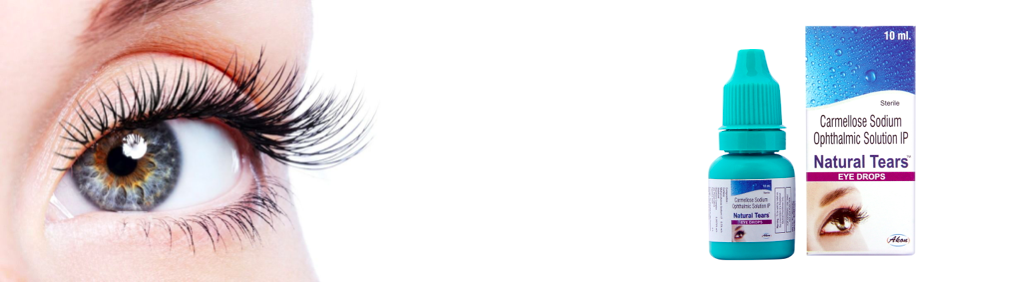
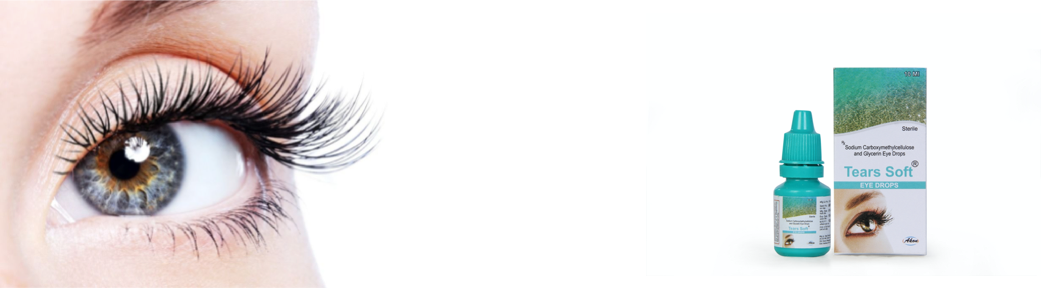
Add Images

diff --git a/index.html b/index.html
@@ -79,8 +79,16 @@
              </li>
 
              <li data-transition="papercut" data-slotamount="7">
-                    <img src="images/new-slider/s5-bg.png"  alt="" data-bgrepeat="no-repeat">
+                   <img src="images/new-slider/s2-bg.png" alt="" data-bgrepeat="no-repeat">
              </li>
+
+             <li data-transition="papercut" data-slotamount="7">
+                   <img src="images/new-slider/s3-bg.png" alt="" data-bgrepeat="no-repeat">
+            </li>
+
+            <li data-transition="papercut" data-slotamount="7">
+                  <img src="images/new-slider/s4-bg.png" alt="" data-bgrepeat="no-repeat">
+           </li>
 
             </ul>
 
@@ -161,7 +169,7 @@
                 <a href="anti-infective.html">
                 <div class="doctor-box col-md-3 col-sm-6 col-xs-12">
                     <div>
-                        <img class="img-responsive" src="images/products/moxikon_lp.jpg" />
+                        <img class="img-responsive" src="images/products/moxikon.jpg" />
                     </div>
                     <div class="doc-name">
                         <div class="doc-name-class">ANTI-INFECTIVE AND ANTI-INFLAMMATORY</div>
